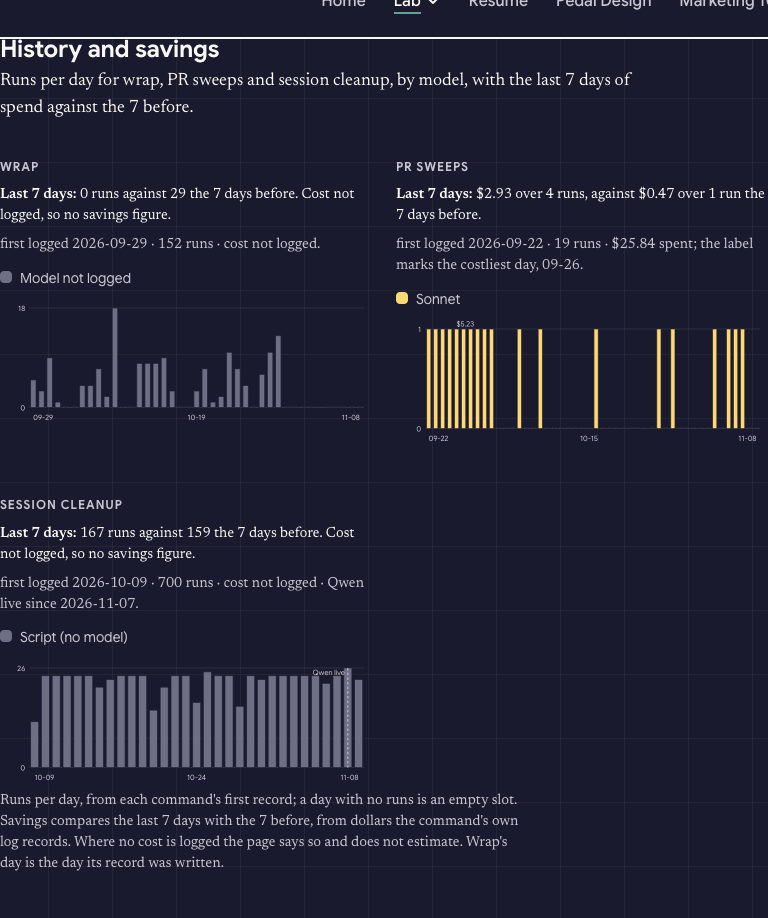
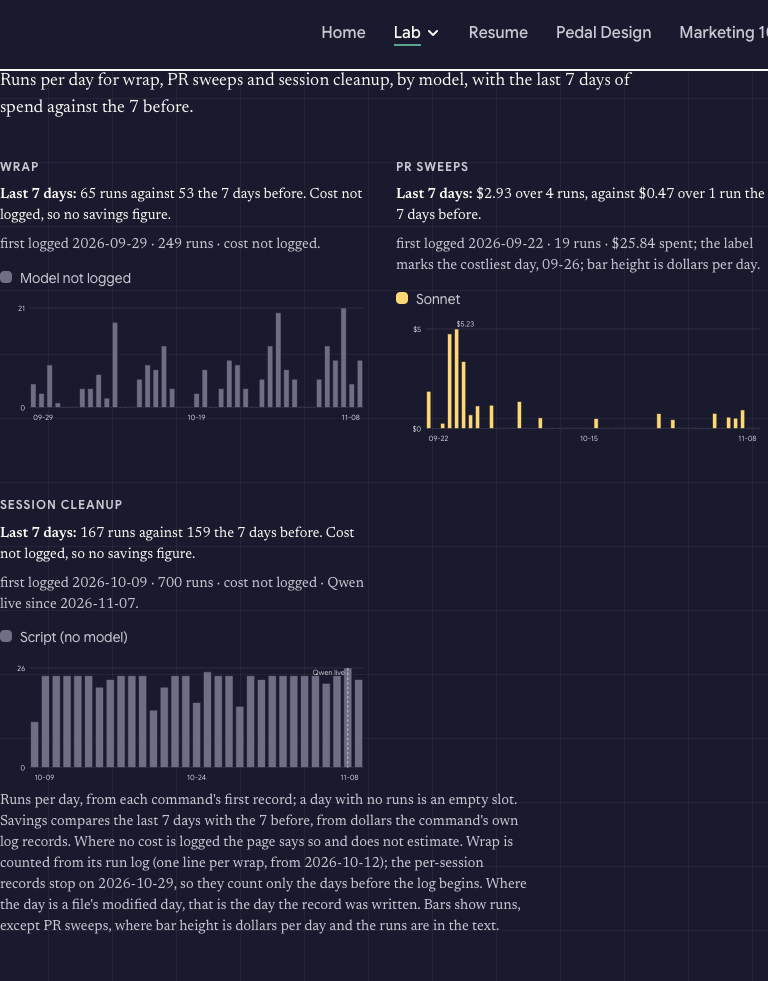
Qwen page: wrap counted from wrap_row.log, PR sweep bars in dollars (site#90)
Claude-Session: https://claude.ai/code/session_01CdKiT5J7LokGT6xaYTPNv4

diff --git a/bin/qwen-state.py b/bin/qwen-state.py
@@ -29,6 +29,7 @@ CRON_RUNS = os.environ.get("QWEN_CRON_RUNS", f"{STATE}/cron-triage/runs.jsonl").
 DECLUTTER = os.environ.get("QWEN_DECLUTTER", f"{STATE}/declutter/qwen.jsonl").split(":")
 REAP = os.environ.get("QWEN_REAP", f"{STATE}/session-reap/qwen.jsonl").split(":")
 WRAP_DIR = os.environ.get("QWEN_WRAP_DIR", f"{STATE}/wrap")
+WRAP_ROW_LOG = os.environ.get("QWEN_WRAP_ROW_LOG", f"{WRAP_DIR}/wrap_row.log")
 PR_SWEEP = os.environ.get("QWEN_PR_SWEEP", f"{STATE}/pr-sweep/runs.jsonl").split(":")
 CLEANUP_LOGS = (os.environ.get("QWEN_SESSION_FINISH", f"{STATE}/session-finish/session-finish.log").split(":")
                 + os.environ.get("QWEN_DECLUTTER_SWEEP", f"{STATE}/declutter-sweep/sweep.log").split(":"))
@@ -325,22 +326,33 @@ def model_bucket(m):
 
 
 def hist_wrap():
-    """Wrap: one record per session in WRAP_DIR. The record has no timestamp, so the day is the file's modified day.
-    No model or cost is logged. Only the count and the day are read; the session id and the asks are never read."""
+    """Wrap: one line of wrap_row.log is one wrap (every line exit=0), so it is the count from its first day on. The per-session
+    JSON records stop on 2026-10-29 and carry no timestamp (day = file modified day); they count only for days before the log
+    begins, so nothing is counted twice. No model or cost is logged. Only counts and days are read, never the asks or ids."""
     out = defaultdict(lambda: {"runs": 0, "models": {NOT_LOGGED: 0}, "usd": None})
+    log = defaultdict(int)
+    try:
+        for line in open(WRAP_ROW_LOG).read().splitlines():
+            m = re.match(r"\[(\d{4}-\d{2}-\d{2})T", line)
+            if m: log[m[1]] += 1
+    except OSError: pass
+    first = min(log) if log else None
+    for dy, n in log.items(): out[dy]["runs"] += n; out[dy]["models"][NOT_LOGGED] += n
     for p in glob.glob(f"{WRAP_DIR}/*.json"):
         try: dy = datetime.fromtimestamp(os.path.getmtime(p), timezone.utc).strftime("%Y-%m-%d")
         except OSError: continue
+        if first and dy >= first: continue
         out[dy]["runs"] += 1; out[dy]["models"][NOT_LOGGED] += 1
     return out
 
 
 def hist_pr_sweep():
-    out = defaultdict(lambda: {"runs": 0, "models": defaultdict(int), "usd": 0.0})
+    out = defaultdict(lambda: {"runs": 0, "models": defaultdict(int), "usd": 0.0, "usd_models": defaultdict(float)})
     for r in rows(PR_SWEEP):
         dy = day(r.get("ts"))
         if not dy: continue
-        out[dy]["runs"] += 1; out[dy]["models"][model_bucket(r.get("model"))] += 1; out[dy]["usd"] += _num(r.get("cost_usd"))
+        mb = model_bucket(r.get("model"))
+        out[dy]["runs"] += 1; out[dy]["models"][mb] += 1; out[dy]["usd"] += _num(r.get("cost_usd")); out[dy]["usd_models"][mb] += _num(r.get("cost_usd"))
     return out
 
 
@@ -371,7 +383,8 @@ def history(now_day, qwen_first):
     out = []
     for key, by, marker in cmds:
         days = [{"day": d, "runs": v["runs"], "models": {k: n for k, n in v["models"].items() if n},
-                 "usd": None if v["usd"] is None else round(v["usd"], 4)} for d, v in sorted(by.items()) if v["runs"]]
+                 "usd": None if v["usd"] is None else round(v["usd"], 4),
+                 **({"usd_models": {k: round(x, 4) for k, x in v["usd_models"].items() if x}} if v.get("usd_models") else {})} for d, v in sorted(by.items()) if v["runs"]]
         logged = any(r["usd"] is not None for r in days)
         win = lambda lo, hi: [r for r in days if addd(now_day, lo) <= r["day"] <= addd(now_day, hi)]
         last, prior = win(-6, 0), win(-13, -7)
